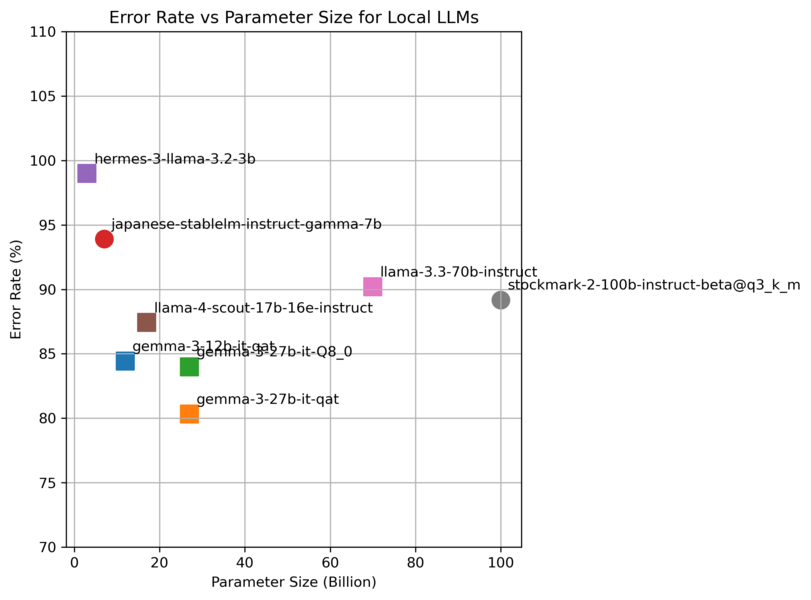
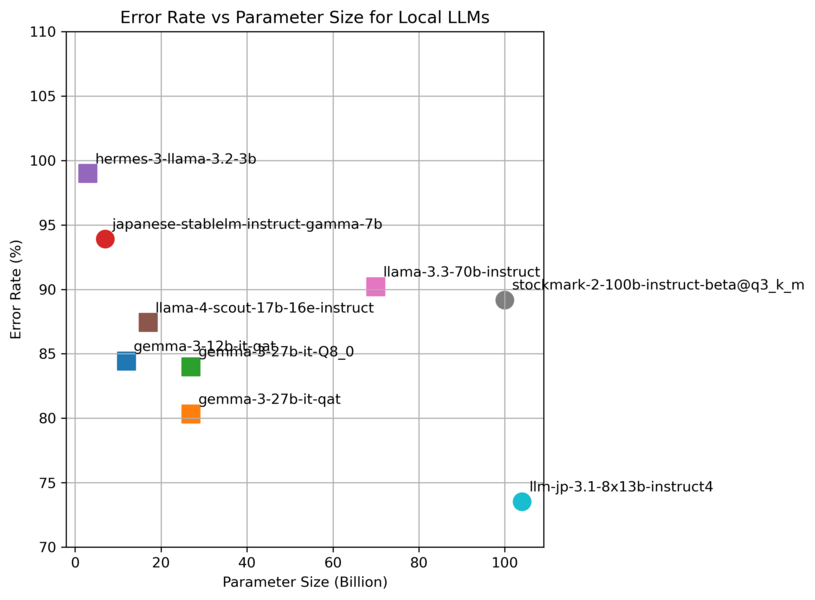
ローカルLLM llm-jp-3.1-8x13b-instruct4 モデルの結果をグラフに追加

diff --git a/benchmark/plot_errorrate_vs_paramsize.py b/benchmark/plot_errorrate_vs_paramsize.py
@@ -19,7 +19,8 @@ modules = [
     'hermes-3-llama-3.2-3b',
     'llama-4-scout-17b-16e-instruct',
     'llama-3.3-70b-instruct',
-    'stockmark-2-100b-instruct-beta@q3_k_m'
+    'stockmark-2-100b-instruct-beta@q3_k_m',
+    'llm-jp-3.1-8x13b-instruct4'
 ]
 # エラー率 (mean CER)
 error_rates = [
@@ -31,6 +32,7 @@ error_rates = [
     0.874311,
     0.902066,
     0.891659,
+    0.735276,
 ]
 # パラメータ数 (ビリオン単位)
 param_sizes = [
@@ -42,6 +44,7 @@ param_sizes = [
     17,
     70,
     100,
+    104,
 ]
 markers = [
     's',
@@ -51,6 +54,7 @@ markers = [
     's',
     's',
     's',
+    'o',
     'o',
 ]
 
@@ -64,6 +68,7 @@ base_colors = [
     'tab:brown',   # 茶
     'tab:pink',    # ピンク
     'tab:gray',    # グレー
+    'tab:cyan',    # シアン
 ]
 colors = base_colors[:len(modules)]
 
